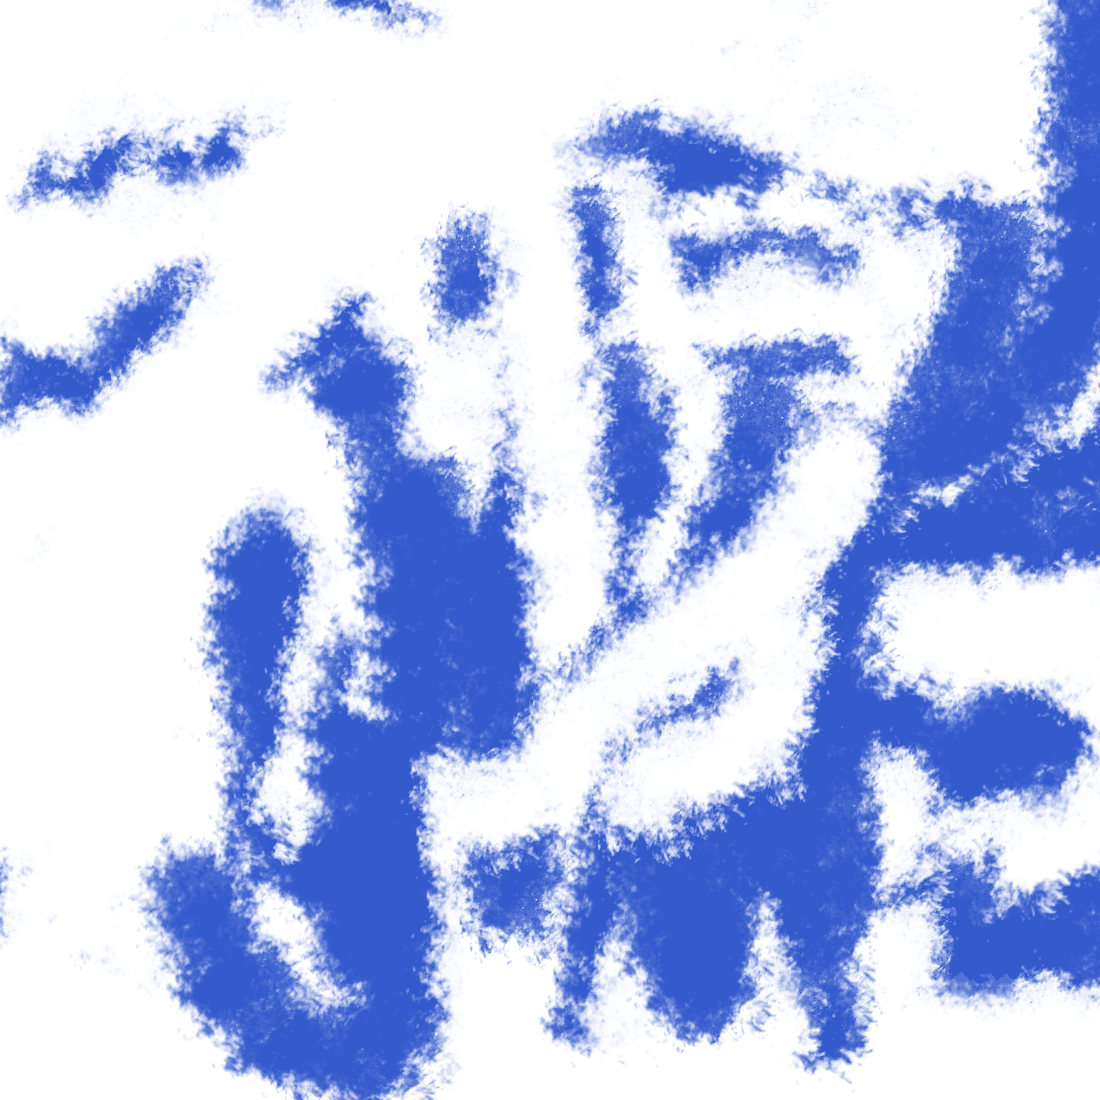
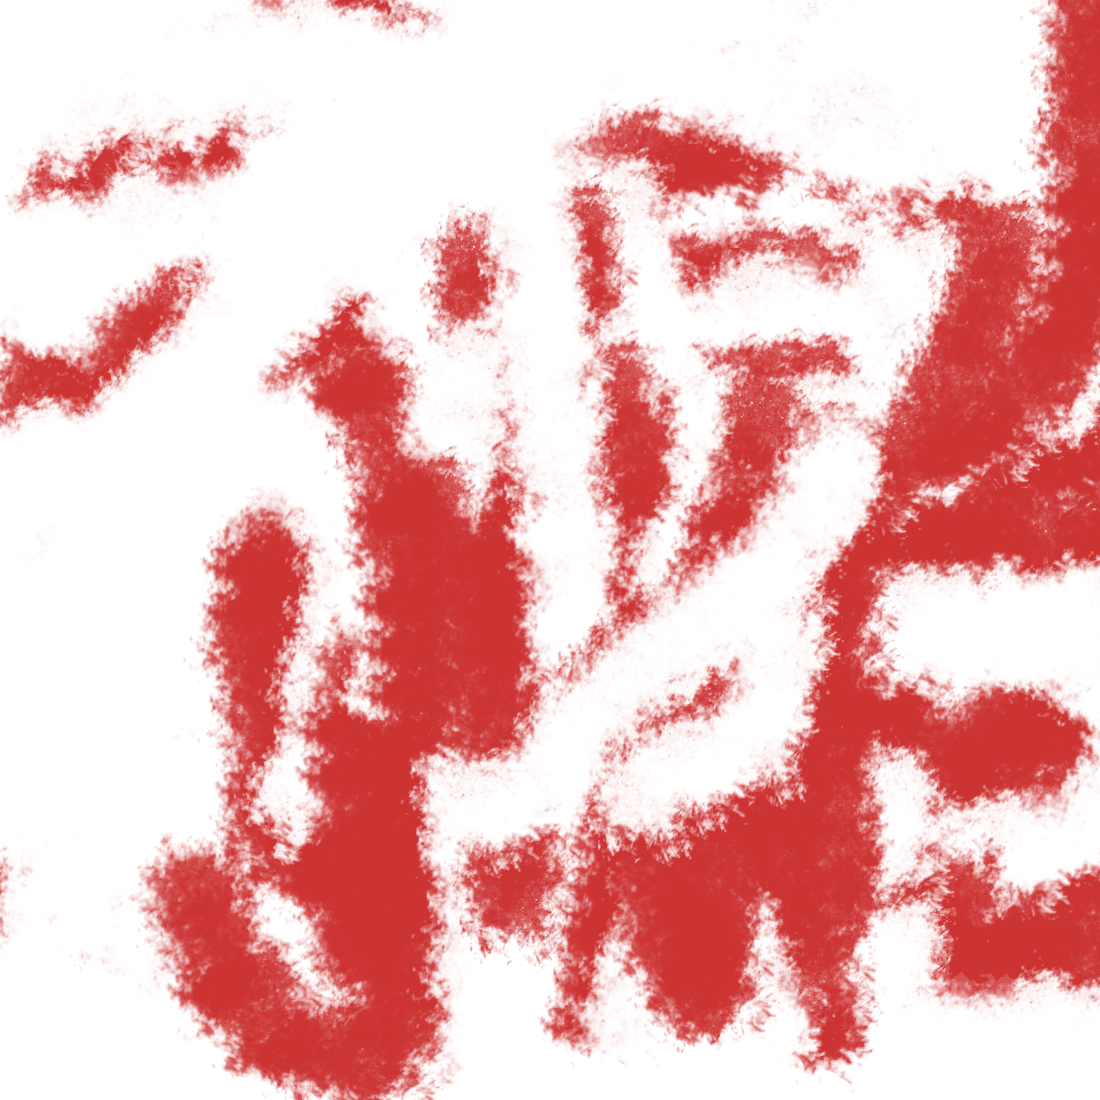
Revert "Change clouds hue rotation base"
This reverts commit a2ef4d862f25fa071e045978c2ce4cdefe9afa0e.

diff --git a/house_renderer.js b/house_renderer.js
@@ -76,7 +76,7 @@ class HouseRenderer {
         fog.style.filter = `brightness(${brightness})`;
 
         sky.style.backgroundColor = hsl;
-        clouds.style.filter = `hue-rotate(${hue + 128}deg) brightness(${brightness}) grayscale(${grayscale}%)`;
+        clouds.style.filter = `hue-rotate(${hue}deg) brightness(${brightness}) grayscale(${grayscale}%)`;
     }
 
     drawStar(context, x, y) {
